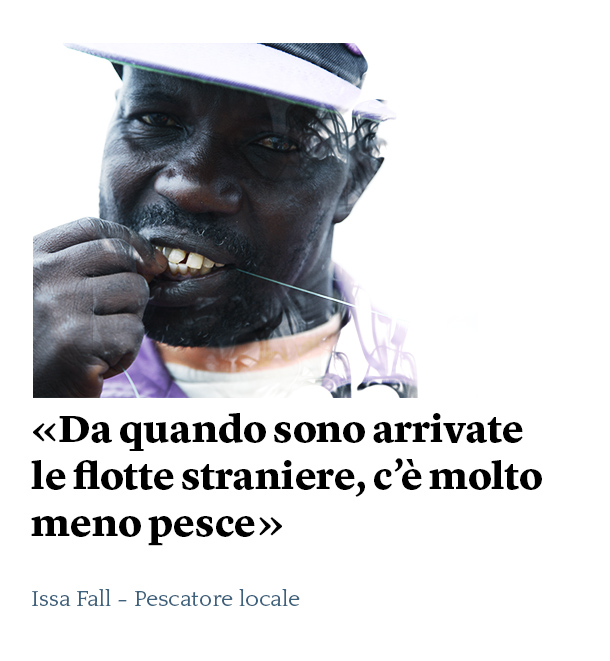
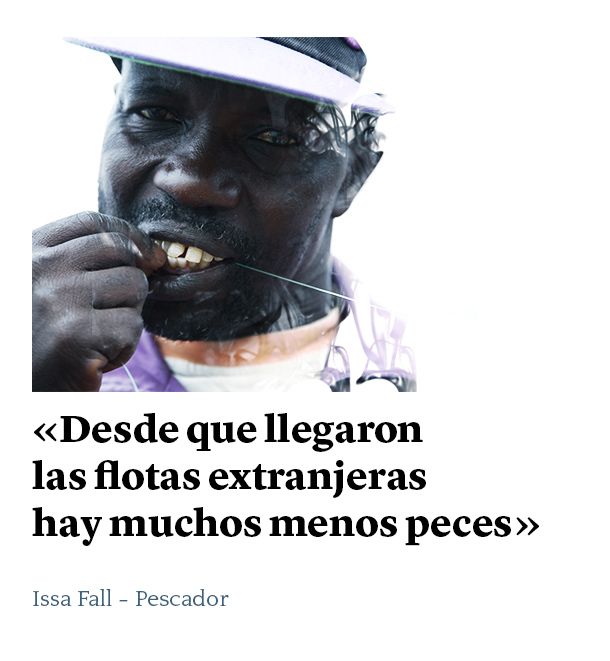
dsa

Changed region(s): [[0.0311, 0.0303, 0.9033, 0.8472], [0.218, 0.8775, 0.4984, 0.938], [0.0623, 0.8775, 0.1869, 0.938]]

diff --git a/esp/index.html b/esp/index.html
@@ -155,7 +155,7 @@
         <div class="overlay-second-band">
             <div class="row">
                 <div class="medium-8 medium-centered columns">
-                    <p>Un'inchiesta di <a href="https://twitter.com/abutiago" target="_blank">Stefano Liberti</a> realizzata grazie a The Innovation in Development Reporting Grant Programme dello European Journalism Center (EJC), finanziato dalla Bill e Melinda Gates Foundation.
+                    <p>Una investigación de <a href="https://twitter.com/abutiago" target="_blank">Stefano Liberti</a> realizada gracias al Programa de innovación en reporterismo de desarrollo del Centro Europeo de Periodismo (EJC, por sus siglas en inglés), financiado por la Fundación Bill y Melinda Gates.
                         <br />
                         <br /> Fotografía y vídeo: Mario Poeta
                         <br /> Mapa e infografía: <a href="http://twitter.com/JacopoOttaviani" target="_blank"> Jacopo Ottaviani</a>
